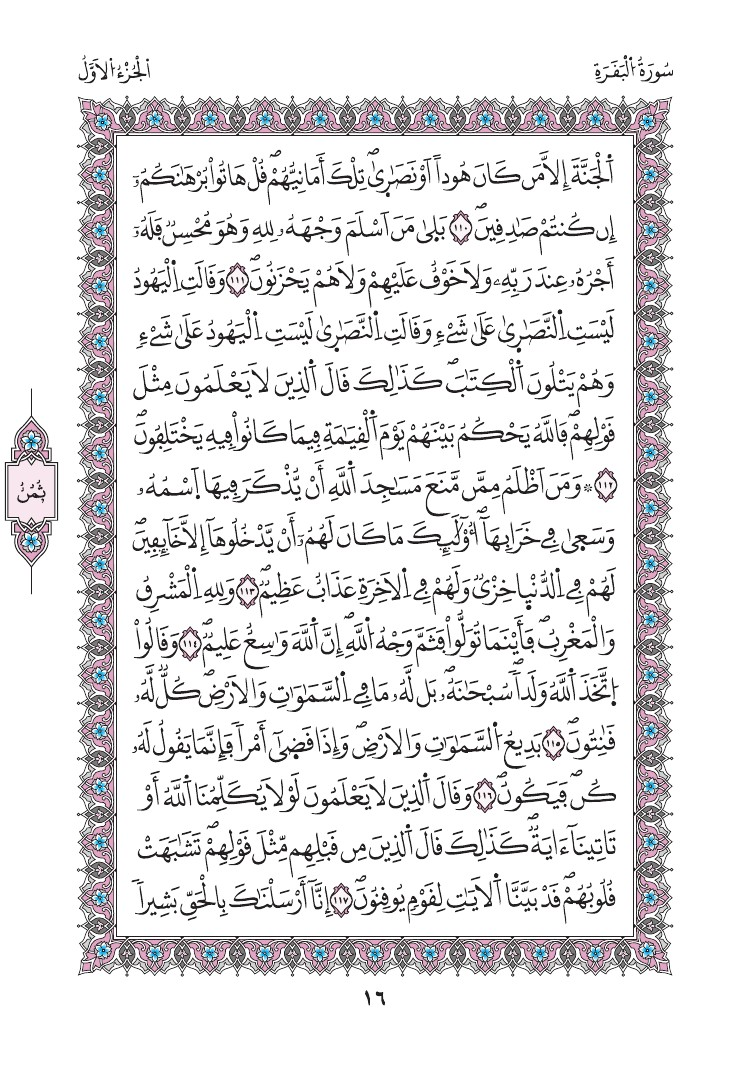
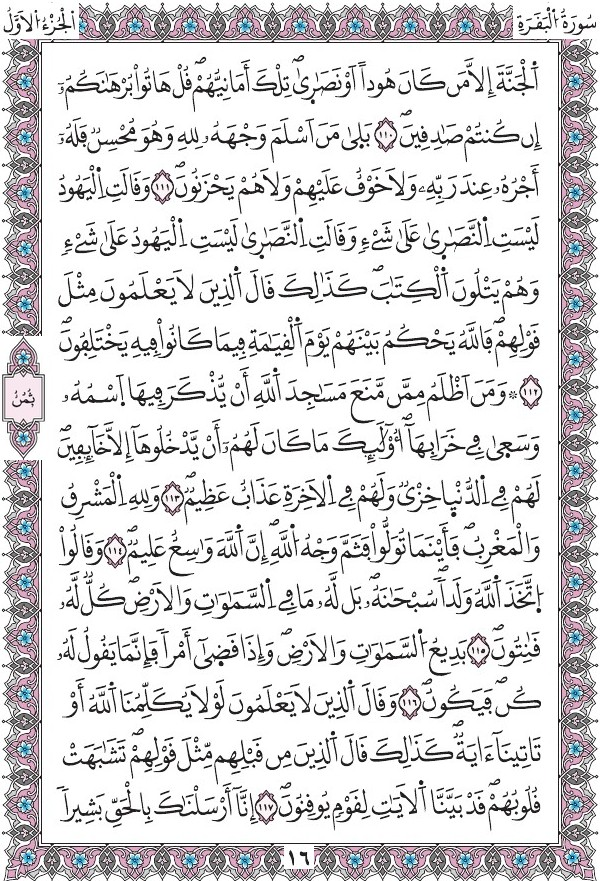
Mushaf 3: paginas recortadas al marco, cabecera, numero y medallon dentro del marco
Claude-Session: https://claude.ai/code/session_01JYfFVVkZGb5ezyMwxu4Qb4

diff --git a/quran3_ayas.js b/quran3_ayas.js
@@ -1,2 +1,2 @@
 // Posiciones (pagina*1e6 + y‰*1e3 + x‰) del final de cada aya en las primeras 20 paginas del mushaf de prueba (KFGQPC, Warsh).
-window.Q3_AYAS=[[1483432,1519596,1519416,1554415,1590479,1624515,1660425],[2519536,2589652,2658445,3166237,3264720,3312512,3360405,3407319,3506807,3552808,3552309,3649299,3744437,3793448,3841195,4215345,4263583,4359505,4453197,4552636,4648435,4742472,4841807,5260717,5406339,5503385,5598667,5693749,5792259,6164443,6214348,6356807,6406443,6502500,6599503,6646471,6743685,6790596,6840195,7211355,7259424,7308448,7356197,7453805,7451197,7549548,7646803,7742652,7790592,7838476,8165544,8213615,8357729,8406423,8454499,8551484,8647343,8743485,9164500,9453435,9599809,9646420,9743809,9791669,9839719,10217805,10265249,10361555,10409284,10554716,10602692,10650432,10842805,11164268,11309684,11308197,11406809,11503611,11598673,11646405,11693299,11838192,12212435,12501715,12549388,12743720,12790699,13164331,13308524,13453720,13503563,13646487,13743639,13790704,14166568,14262703,14311405,14358365,14408324,14505195,15169623,15216571,15264303,15410636,15457351,15554701,15602192,15746195,15842344,16215616,16264317,16455809,16554331,16604255,16696739,16744648,16842456,17168437,17312599,17409696,17457497,17554708,17650711,17745271,18167361,18264735,18312196,18456811,18505396,18553532,18650808,18746304,18841643,19170348,19313325,19410336,19457336,19556669,19699601,19748327,19843193,20356419,20550716,20694669,20743245,20790448],[],[],[],[],[],[],[],[],[],[],[],[],[],[],[],[],[],[],[],[],[],[],[],[],[],[],[],[],[],[],[],[],[],[],[],[],[],[],[],[],[],[],[],[],[],[],[],[],[],[],[],[],[],[],[],[],[],[],[],[],[],[],[],[],[],[],[],[],[],[],[],[],[],[],[],[],[],[],[],[],[],[],[],[],[],[],[],[],[],[],[],[],[],[],[],[],[],[],[],[],[],[],[],[],[],[],[],[],[],[],[],[]];
+window.Q3_AYAS=[[1469420,1511613,1511401,1551400,1592475,1631518,1672412],[2511542,2591679,2670435,3096171,3216775,3274515,3332381,3390274,3510884,3566885,3566261,3684249,3800421,3859435,3918119,4156306,4214604,4331506,4446121,4566670,4683419,4797465,4918884,5211771,5388299,5506356,5622709,5738811,5858199,6094429,6155310,6328884,6388429,6505500,6623504,6680464,6799731,6856620,6917119,7151319,7210405,7269435,7328121,7446881,7443121,7562560,7680879,7797690,7856615,7914470,8095555,8154644,8329786,8388404,8447499,8565480,8682304,8799481,9094500,9446419,9623886,9680400,9799886,9857711,9915774,10158881,10217186,10334569,10392230,10569770,10627740,10685415,10919881,11094210,11270730,11269121,11388886,11506639,11622716,11680381,11738249,11914115,12152419,12504769,12562360,12799775,12856749,13094289,13269530,13446775,13506579,13680484,13799674,13856755,14096585,14213754,14273381,14330331,14391280,14509119,15100654,15157589,15216254,15393670,15451314,15569751,15627115,15802119,15919305,16156645,16216271,16448886,16569289,16629194,16741799,16800685,16919445,17099421,17274624,17392745,17451496,17569760,17685764,17801214,18098326,18216794,18274120,18449889,18509370,18567540,18685885,18802255,18918679,19101310,19275281,19393295,19451295,19571711,19745626,19805284,19920116,20328399,20564770,20739711,20799181,20856435],[],[],[],[],[],[],[],[],[],[],[],[],[],[],[],[],[],[],[],[],[],[],[],[],[],[],[],[],[],[],[],[],[],[],[],[],[],[],[],[],[],[],[],[],[],[],[],[],[],[],[],[],[],[],[],[],[],[],[],[],[],[],[],[],[],[],[],[],[],[],[],[],[],[],[],[],[],[],[],[],[],[],[],[],[],[],[],[],[],[],[],[],[],[],[],[],[],[],[],[],[],[],[],[],[],[],[],[],[],[],[],[]];

diff --git a/quran3.js b/quran3.js
@@ -74,7 +74,7 @@
       '#quran3View .q3-box{background:#fff}#quran3View .q3-cad,#quran3View .q3-hd,#quran3View .q3-num{display:none!important}' +
       '#quran3View .q3-night .q3-box{background:transparent}#quran3View .q3-night .q3-box img{mix-blend-mode:normal}' +
       '#quran3View .q3-night img{filter:invert(1) hue-rotate(180deg) brightness(.9)}' +
-      '#quran3View .q3-box{position:relative;width:100%;padding-bottom:142.93%}' +
+      '#quran3View .q3-box{position:relative;width:100%;padding-bottom:146.83%}' +
       '#quran3View .q3-box img{position:absolute;left:0;top:0;width:100%;height:100%;object-fit:contain}' +
       '#quran3View .q3-cad{height:.55rem;background-size:100% 100%;background-repeat:no-repeat}' +
       '#quran3View .q3-cad1{background-image:url(quran_pages/q3_cadre1.jpg)}#quran3View .q3-cad2{background-image:url(quran_pages/q3_cadre2.jpg)}' +
@@ -619,10 +619,10 @@
   // Luz transparente un instante sobre el aya: empieza justo después del número del aya anterior y acaba en su propio número.
   // Texto de derecha a izquierda: la primera línea va desde el número anterior hacia la izquierda, las intermedias enteras y la última desde la derecha hasta el número del aya.
   // Y (‰) de la primera línea de texto del aya 1 de cada sura (debajo del cuadro del nombre de la sura); -1 = arriba de la página.
-  var SURA_START = [483, 484];
+  var SURA_START = [469, 470];
   var posIdx = null;
   // Geometría (‰ de la imagen) de la zona de texto: las 2 primeras páginas llevan marco decorativo y letra más pequeña.
-  function pcfg(pg) { return pg <= 2 ? { L: 350, R: 690, TOP: 452, BOT: 656, LH: 34, MK: 27 } : { L: 165, R: 835, TOP: 160, BOT: 837, LH: 48.5, MK: 31 }; }
+  function pcfg(pg) { return pg <= 2 ? { L: 324, R: 723, TOP: 434, BOT: 667, LH: 39, MK: 32, W: 82 } : { L: 81, R: 919, TOP: 89, BOT: 913, LH: 59, MK: 39, W: 88 }; }
   function glow(bx, pos) {
     if (!window.Q3_AYAS) return;
     var old = document.querySelectorAll('#q3Pages .q3-hl'), i;
@@ -661,10 +661,10 @@
     var pp = Math.floor(prev / 1000000), py = Math.floor(prev / 1000) % 1000, px = prev % 1000;
     var xs = px - MK, ys = py;
     if (pp === p) {
-      if (xs < c0.L + 70) { ys += LH; xs = null; }
+      if (xs < c0.L + c0.W) { ys += LH; xs = null; }
       seg(p, ys, xs, ye, xe);
     } else {                                       // el aya empieza en una página anterior y acaba en esta
-      if (xs < c0.L + 70) { ys += LH; xs = null; }
+      if (xs < c0.L + c0.W) { ys += LH; xs = null; }
       if (ys <= BOT + LH / 2) seg(pp, ys, xs, BOT, null);
       seg(p, TOP, null, ye, xe);
     }

diff --git a/sw.js b/sw.js
@@ -1,6 +1,6 @@
 // sw.js — service worker de la versión web (PWA). No se registra dentro de la app de Android.
 // Al cambiar archivos de la app, subir CACHE_VERSION para que los móviles descarguen la versión nueva.
-const CACHE_VERSION = 'zad-v123';
+const CACHE_VERSION = 'zad-v125';
 const CORE_CACHE = CACHE_VERSION + '-core';
 const RUNTIME_CACHE = CACHE_VERSION + '-runtime';
 
